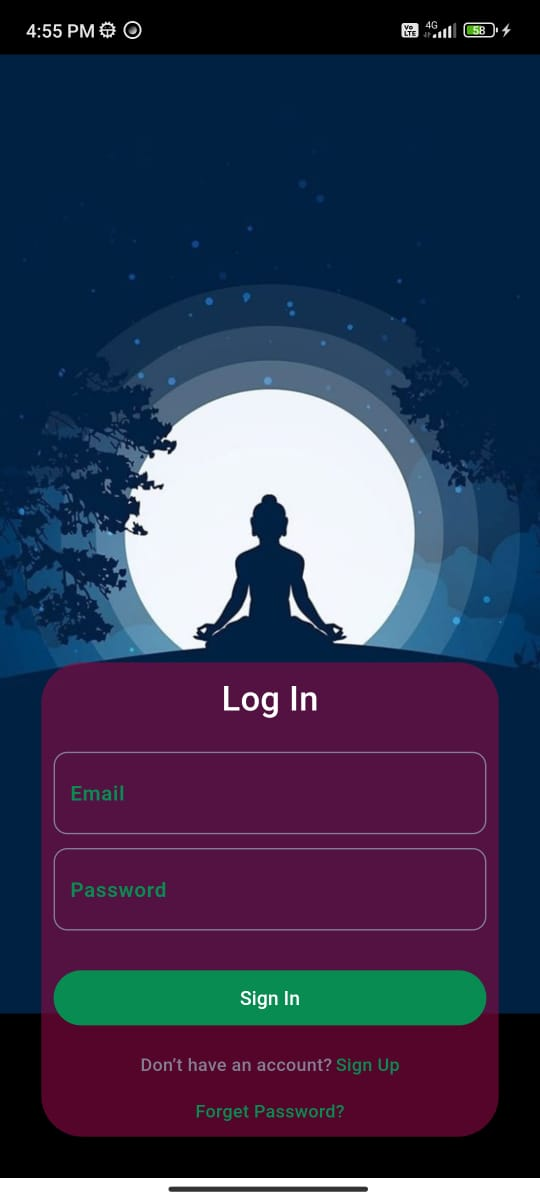
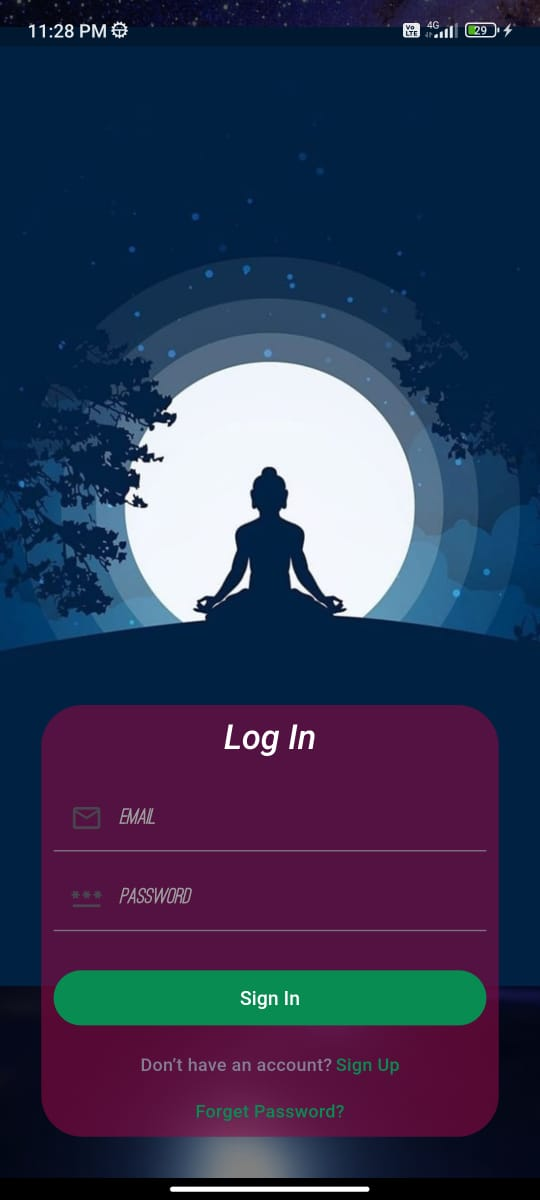
minor

diff --git a/lib/auth/login_idea/login_screen.dart b/lib/auth/login_idea/login_screen.dart
@@ -151,7 +151,7 @@ class _LoginScreenState extends State<LoginScreen> {
 
                           controller: emailController,
                           style: textFieldTextStyle(),
-                          decoration: InputDecoration(hintText: 'Email',prefixIcon: Icon(Icons.email_outlined)),
+                          decoration: InputDecoration(hintText: 'Email',hintStyle:Theme.of(context).textTheme.titleMedium!.copyWith(fontSize: 16,color: Colors.grey),prefixIcon: Icon(Icons.email_outlined)),
                         ),
                         const SizedBox(
                           height: 10,
@@ -172,7 +172,7 @@ class _LoginScreenState extends State<LoginScreen> {
                           ),
                           controller: _passController,
                           style: textFieldTextStyle(),
-                          decoration: InputDecoration(hintText: 'Password',prefixIcon: Icon(Icons.password_outlined)),
+                          decoration: InputDecoration(hintText: 'Password',hintStyle:Theme.of(context).textTheme.titleMedium!.copyWith(fontSize: 16,color: Colors.grey),prefixIcon: Icon(Icons.password_outlined)),
 
                         ),
                         const SizedBox(
